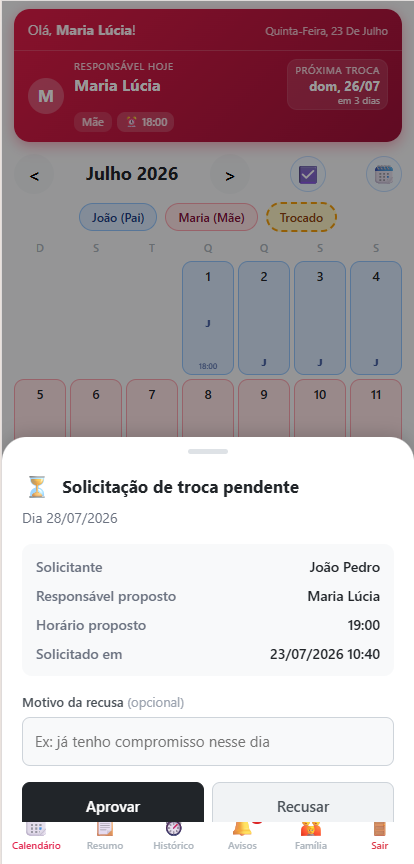
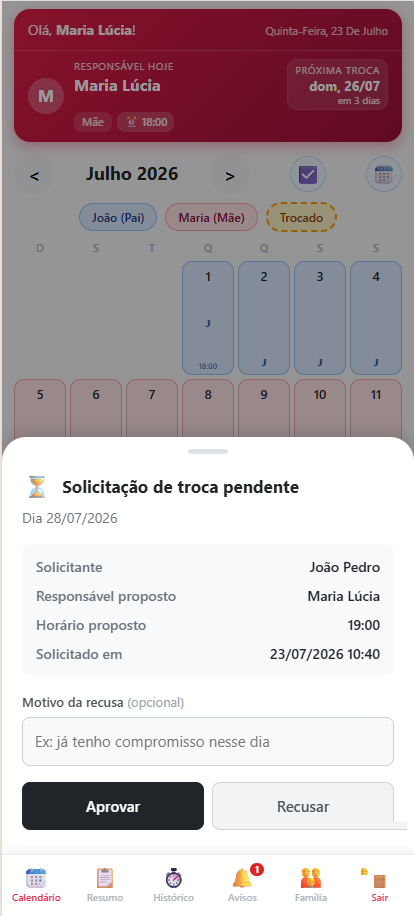
fix(landing): L-03 — telas sem corte na navbar + selo DEV mascarado no lugar (#11)
O ajuste anterior tirava o selo DEV recortando a faixa acima da navbar, o que
(a) deixava as imagens com alturas diferentes e (b) com object-fit: cover cortava
a navbar inferior das telas mais altas. Agora o selo é mascarado NO LUGAR (a
pílula é coberta com o próprio fundo local; onde há texto na linha, preenche com
a cor sólida local), preservando a altura nativa (~915). A moldura passa a usar
a proporção nativa (413/915), então cada tela aparece inteira, com a navbar
completa, sem corte.

Também remove a tela de Notificações do conjunto: os títulos das notificações
trazem o prefixo [Dev] embutido (ambiente não-produção), que não dá para mascarar
de forma limpa — recaptura de produção depois. Galeria passa a 3 telas.

Claude-Session: https://claude.ai/code/session_01JpNVmcNR67BgkZw9XXszVk

diff --git a/public/index.html b/public/index.html
@@ -204,7 +204,7 @@
             width: 290px; max-width: 80vw; margin: 0; background: #0f172a; border-radius: 40px; padding: 11px;
             box-shadow: 0 26px 60px rgba(15, 23, 42, 0.28);
         }
-        .phone-screen { position: relative; background: #fff; border-radius: 30px; overflow: hidden; aspect-ratio: 411 / 864; }
+        .phone-screen { position: relative; background: #fff; border-radius: 30px; overflow: hidden; aspect-ratio: 413 / 915; }
         .shots { position: absolute; inset: 0; }
         .shot { position: absolute; inset: 0; opacity: 0; transition: opacity .7s ease; }
         .shot.is-active { opacity: 1; }
@@ -217,10 +217,10 @@
 
         /* Screenshot gallery ("por dentro do app") */
         #galeria { background: #fff; border-top: 1px solid var(--line); border-bottom: 1px solid var(--line); }
-        .gallery-grid { display: grid; grid-template-columns: repeat(4, 1fr); gap: 26px; margin-top: 8px; }
+        .gallery-grid { display: grid; grid-template-columns: repeat(3, 1fr); gap: 26px; margin-top: 8px; max-width: 820px; }
         .gallery-item { display: flex; flex-direction: column; align-items: center; gap: 14px; }
         .phone-sm { width: 100%; max-width: 210px; background: #0f172a; border-radius: 30px; padding: 8px; box-shadow: 0 16px 36px rgba(15, 23, 42, 0.20); }
-        .phone-sm .scr { border-radius: 22px; overflow: hidden; aspect-ratio: 411 / 864; background: #fff; }
+        .phone-sm .scr { border-radius: 22px; overflow: hidden; aspect-ratio: 413 / 915; background: #fff; }
         .phone-sm img { display: block; width: 100%; height: 100%; object-fit: cover; object-position: top center; }
         .gallery-item p { font-size: 14px; color: var(--muted); text-align: center; margin: 0; max-width: 210px; }
 
@@ -392,31 +392,31 @@
                         <div class="shot is-active" data-caption="Veja de quem é o dia — hoje e nos próximos">
                             <picture>
                                 <source srcset="img/screenshots/today-calendar-meu-dia.webp" type="image/webp" />
-                                <img src="img/screenshots/today-calendar-meu-dia.png" width="411" height="864" alt="Tela inicial do app: card mostrando de quem é o dia e o calendário do mês com os dias coloridos por responsável" loading="eager" decoding="async" />
+                                <img src="img/screenshots/today-calendar-meu-dia.png" width="413" height="915" alt="Tela inicial do app: card mostrando de quem é o dia e o calendário do mês com os dias coloridos por responsável" loading="eager" decoding="async" />
                             </picture>
                         </div>
                         <div class="shot" data-caption="Trocou um dia? Só vale com a aprovação dos dois">
                             <picture>
                                 <source srcset="img/screenshots/troca-aguardando-aprovacao.webp" type="image/webp" />
-                                <img src="img/screenshots/troca-aguardando-aprovacao.png" width="414" height="864" alt="Solicitação de troca de dia pendente, com os botões Aprovar e Recusar" loading="lazy" decoding="async" />
+                                <img src="img/screenshots/troca-aguardando-aprovacao.png" width="414" height="916" alt="Solicitação de troca de dia pendente, com os botões Aprovar e Recusar" loading="lazy" decoding="async" />
                             </picture>
                         </div>
                         <div class="shot" data-caption="Monte a rotação em segundos — até com avós no revezamento">
                             <picture>
                                 <source srcset="img/screenshots/assistente-rotacao-com-avo.webp" type="image/webp" />
-                                <img src="img/screenshots/assistente-rotacao-com-avo.png" width="411" height="863" alt="Assistente de rotação montando um ciclo de revezamento com pai, mãe e avó" loading="lazy" decoding="async" />
+                                <img src="img/screenshots/assistente-rotacao-com-avo.png" width="411" height="913" alt="Assistente de rotação montando um ciclo de revezamento com pai, mãe e avó" loading="lazy" decoding="async" />
                             </picture>
                         </div>
                         <div class="shot" data-caption="Tudo registrado, com data e hora — sem poder apagar">
                             <picture>
                                 <source srcset="img/screenshots/historico-auditoria.webp" type="image/webp" />
-                                <img src="img/screenshots/historico-auditoria.png" width="415" height="863" alt="Histórico de ajustes: registro imutável das alterações com data e hora" loading="lazy" decoding="async" />
+                                <img src="img/screenshots/historico-auditoria.png" width="415" height="917" alt="Histórico de ajustes: registro imutável das alterações com data e hora" loading="lazy" decoding="async" />
                             </picture>
                         </div>
                         <div class="shot" data-caption="Quantos dias ficaram com cada um, sem discussão">
                             <picture>
                                 <source srcset="img/screenshots/relatorio-resumo.webp" type="image/webp" />
-                                <img src="img/screenshots/relatorio-resumo.png" width="413" height="863" alt="Resumo do período com a contagem de dias programados e realizados por responsável" loading="lazy" decoding="async" />
+                                <img src="img/screenshots/relatorio-resumo.png" width="413" height="915" alt="Resumo do período com a contagem de dias programados e realizados por responsável" loading="lazy" decoding="async" />
                             </picture>
                         </div>
                     </div>
@@ -467,7 +467,7 @@
                 <div class="phone-sm"><div class="scr">
                     <picture>
                         <source srcset="img/screenshots/calendario-tres-cuidadores.webp" type="image/webp" />
-                        <img src="img/screenshots/calendario-tres-cuidadores.png" width="413" height="864" alt="Calendário com três responsáveis — pai, mãe e avó — cada um com a sua cor" loading="lazy" decoding="async" />
+                        <img src="img/screenshots/calendario-tres-cuidadores.png" width="413" height="915" alt="Calendário com três responsáveis — pai, mãe e avó — cada um com a sua cor" loading="lazy" decoding="async" />
                     </picture>
                 </div></div>
                 <p>Pai, mãe e avó no mesmo calendário, cada um com a sua cor.</p>
@@ -476,7 +476,7 @@
                 <div class="phone-sm"><div class="scr">
                     <picture>
                         <source srcset="img/screenshots/editor-dia.webp" type="image/webp" />
-                        <img src="img/screenshots/editor-dia.png" width="412" height="865" alt="Editor de um dia do calendário: responsável, horário da troca e observações" loading="lazy" decoding="async" />
+                        <img src="img/screenshots/editor-dia.png" width="412" height="918" alt="Editor de um dia do calendário: responsável, horário da troca e observações" loading="lazy" decoding="async" />
                     </picture>
                 </div></div>
                 <p>Defina o responsável, o horário da troca e uma observação para cada dia.</p>
@@ -484,17 +484,8 @@
             <div class="gallery-item">
                 <div class="phone-sm"><div class="scr">
                     <picture>
-                        <source srcset="img/screenshots/notificacoes.webp" type="image/webp" />
-                        <img src="img/screenshots/notificacoes.png" width="413" height="864" alt="Central de avisos com notificações de trocas e novidades" loading="lazy" decoding="async" />
-                    </picture>
-                </div></div>
-                <p>Avisos quando algo muda — os dois ficam sempre por dentro.</p>
-            </div>
-            <div class="gallery-item">
-                <div class="phone-sm"><div class="scr">
-                    <picture>
                         <source srcset="img/screenshots/familia-membros.webp" type="image/webp" />
-                        <img src="img/screenshots/familia-membros.png" width="412" height="864" alt="Tela da família com os responsáveis e o convite por e-mail" loading="lazy" decoding="async" />
+                        <img src="img/screenshots/familia-membros.png" width="412" height="914" alt="Tela da família com os responsáveis e o convite por e-mail" loading="lazy" decoding="async" />
                     </picture>
                 </div></div>
                 <p>Convide o outro responsável e outros cuidadores por e-mail.</p>

diff --git a/ROADMAP.md b/ROADMAP.md
@@ -98,15 +98,18 @@ The hero's CSS/HTML phone mockup is replaced by an **auto-rotating slideshow of 
 (Today card + calendar, swap approval, rotation wizard with a grandmother in the cycle, the
 immutable history, the per-parent summary) inside a phone frame — it pauses on hover/focus, is
 swipeable, has dot navigation and honours `prefers-reduced-motion`. A new **"Veja o app por
-dentro"** gallery shows four more screens (3-caregiver calendar, day editor, notifications,
-family/invite). Every image ships as `<picture>` **WebP + PNG fallback** (WebP ~half the bytes);
-below-the-fold shots lazy-load. The QA-build **"DEV" environment badge** was removed from each
-capture (its band was spliced out) so nothing hints at the dev environment.
+dentro"** gallery shows three more screens (3-caregiver calendar, day editor, family/invite).
+Every image ships as `<picture>` **WebP + PNG fallback** (WebP ~half the bytes); below-the-fold
+shots lazy-load. The QA-build **"DEV" environment badge** was painted out of each capture
+**in place** (the pill covered with its own local background — native height preserved so the
+phone frame shows every screen whole, bottom nav included, with nothing cropped). The
+notifications screen was dropped from the set because its notification titles carry an inline
+`[Dev]` environment prefix that can't be masked cleanly (recapture from prod later).
 
 Captured at ~412×915 (DPR 1) — sharp enough for the landing at the sizes shown; **re-capture at
 DPR 3 for the Play listing (app T-38)**.
 
-**Files (done):** `public/img/screenshots/*.{png,webp}` (12 assets); `index.html` (hero slideshow,
+**Files (done):** `public/img/screenshots/*.{png,webp}` (11 assets); `index.html` (hero slideshow,
 gallery section, slideshow styles + inline JS). **Micro-follow-up:** DPR-3 recaptures for T-38.
 
 ---
